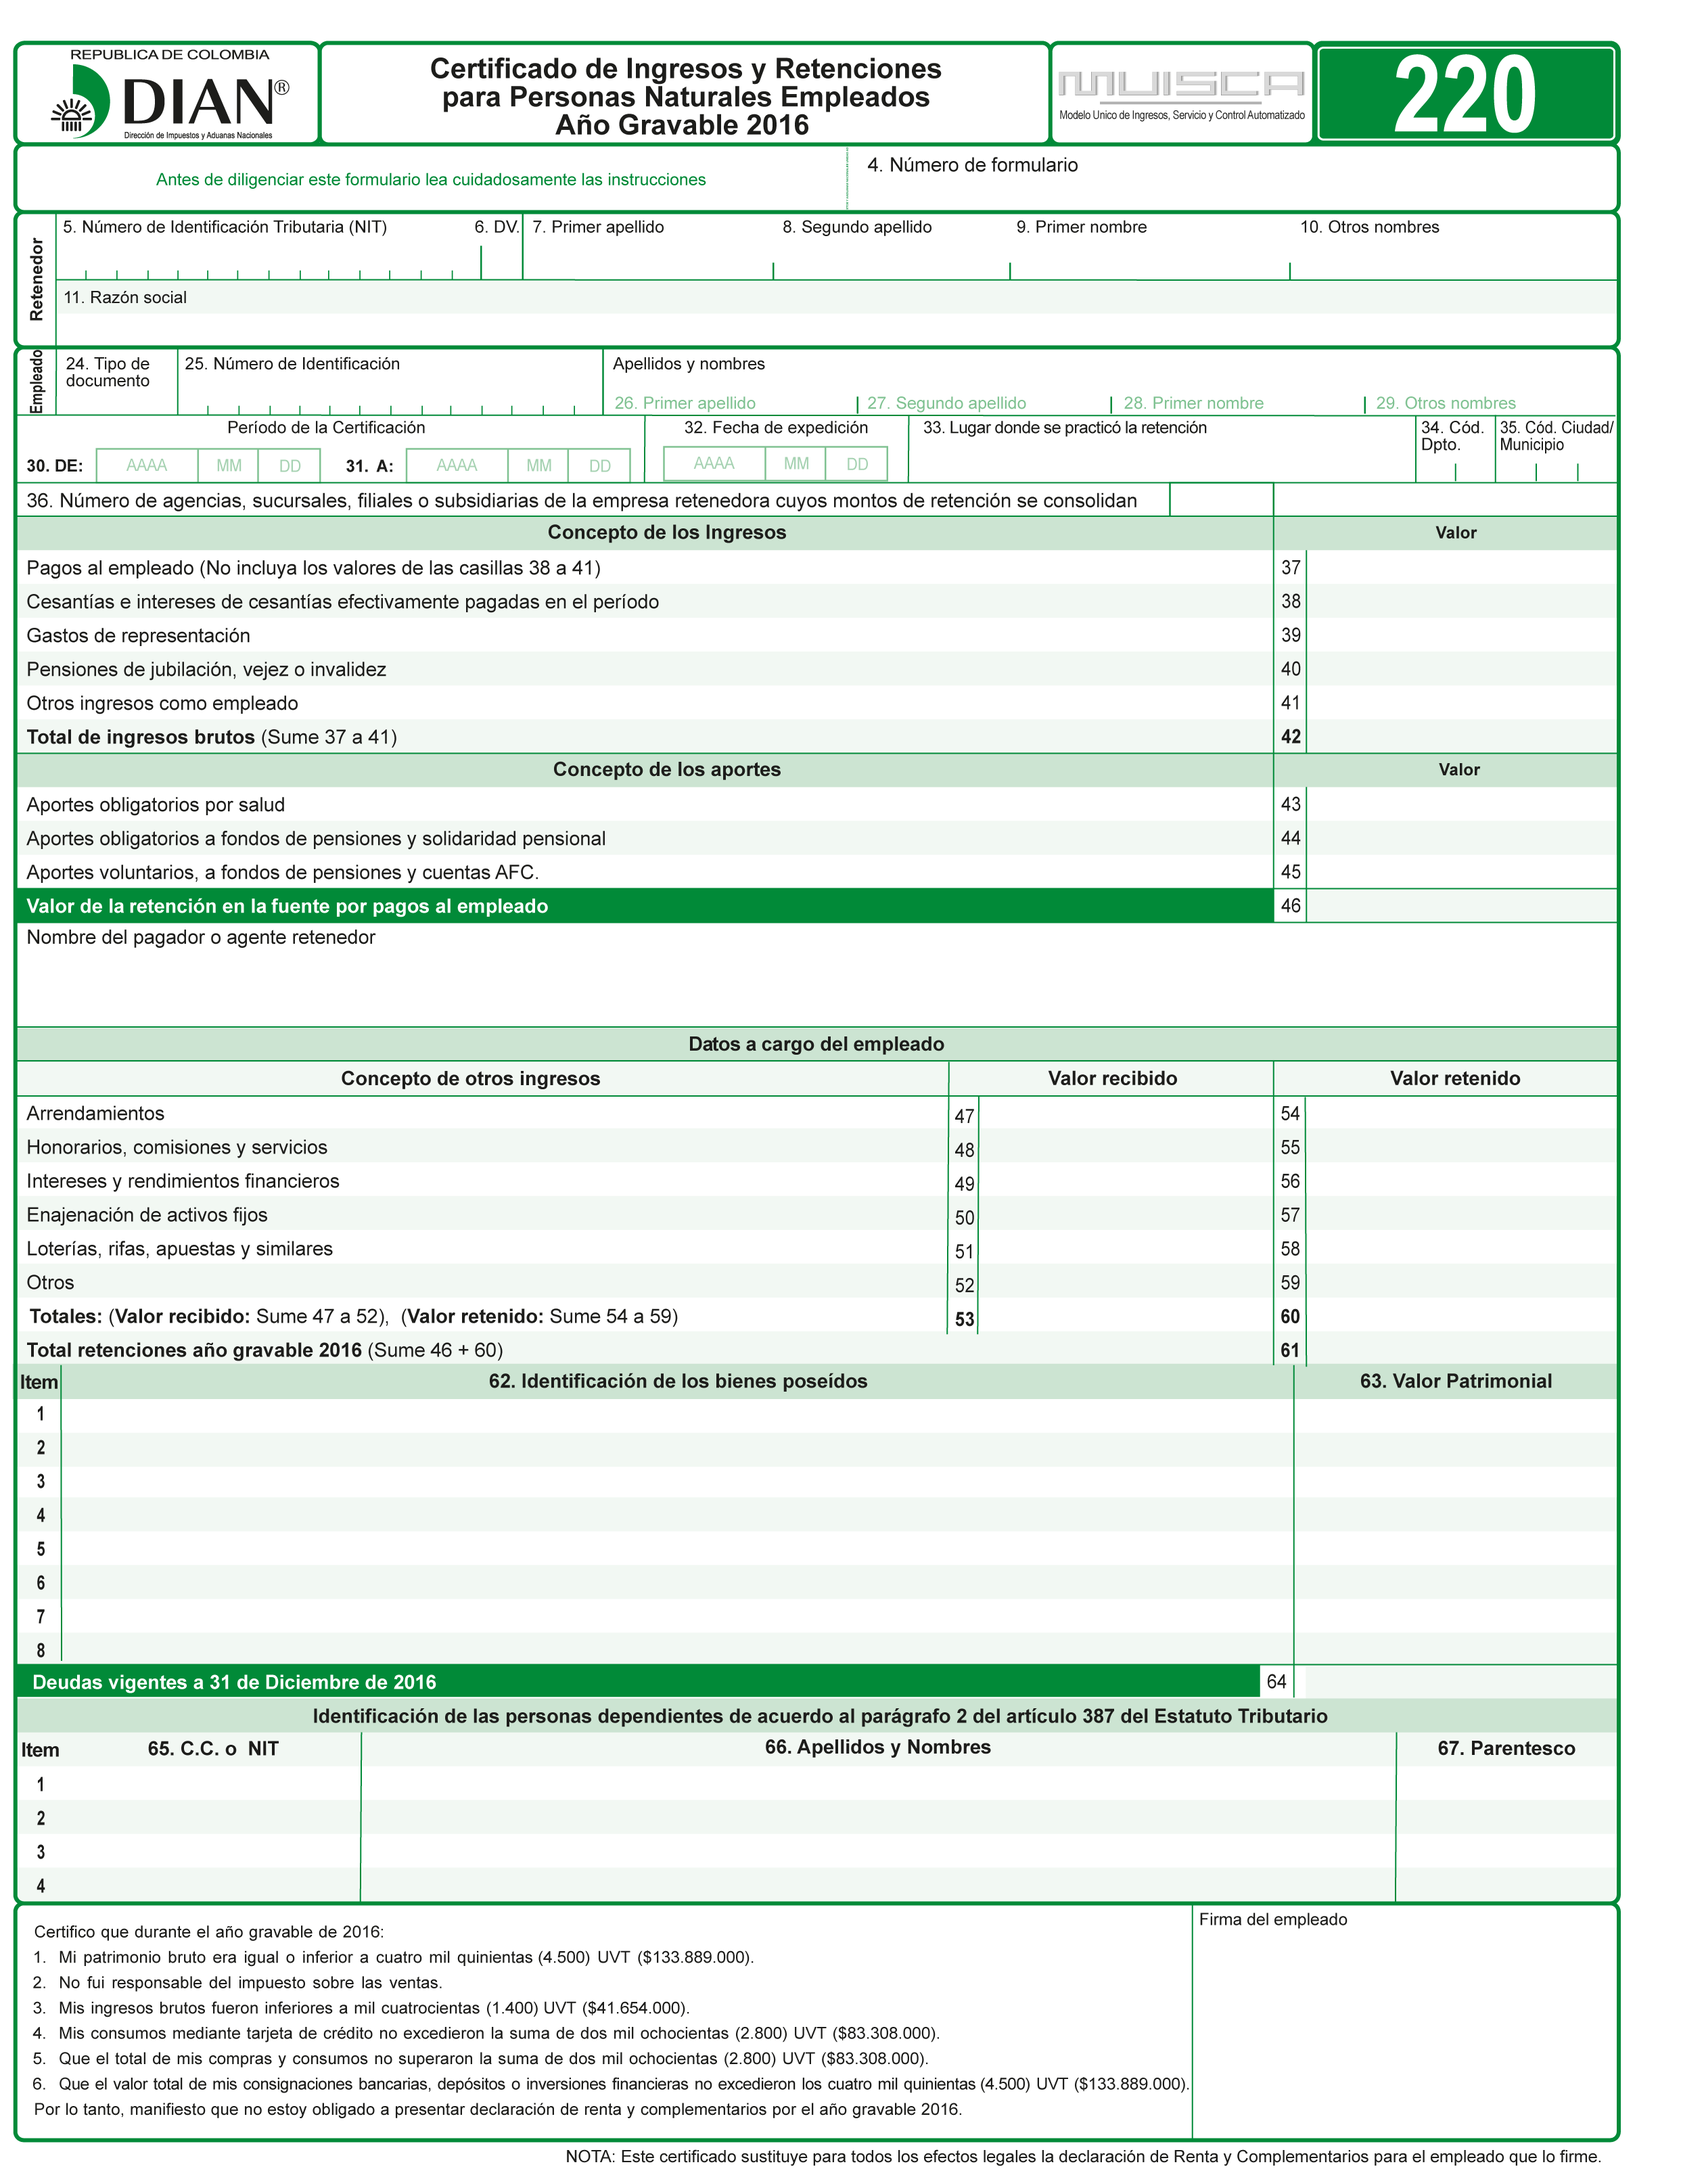
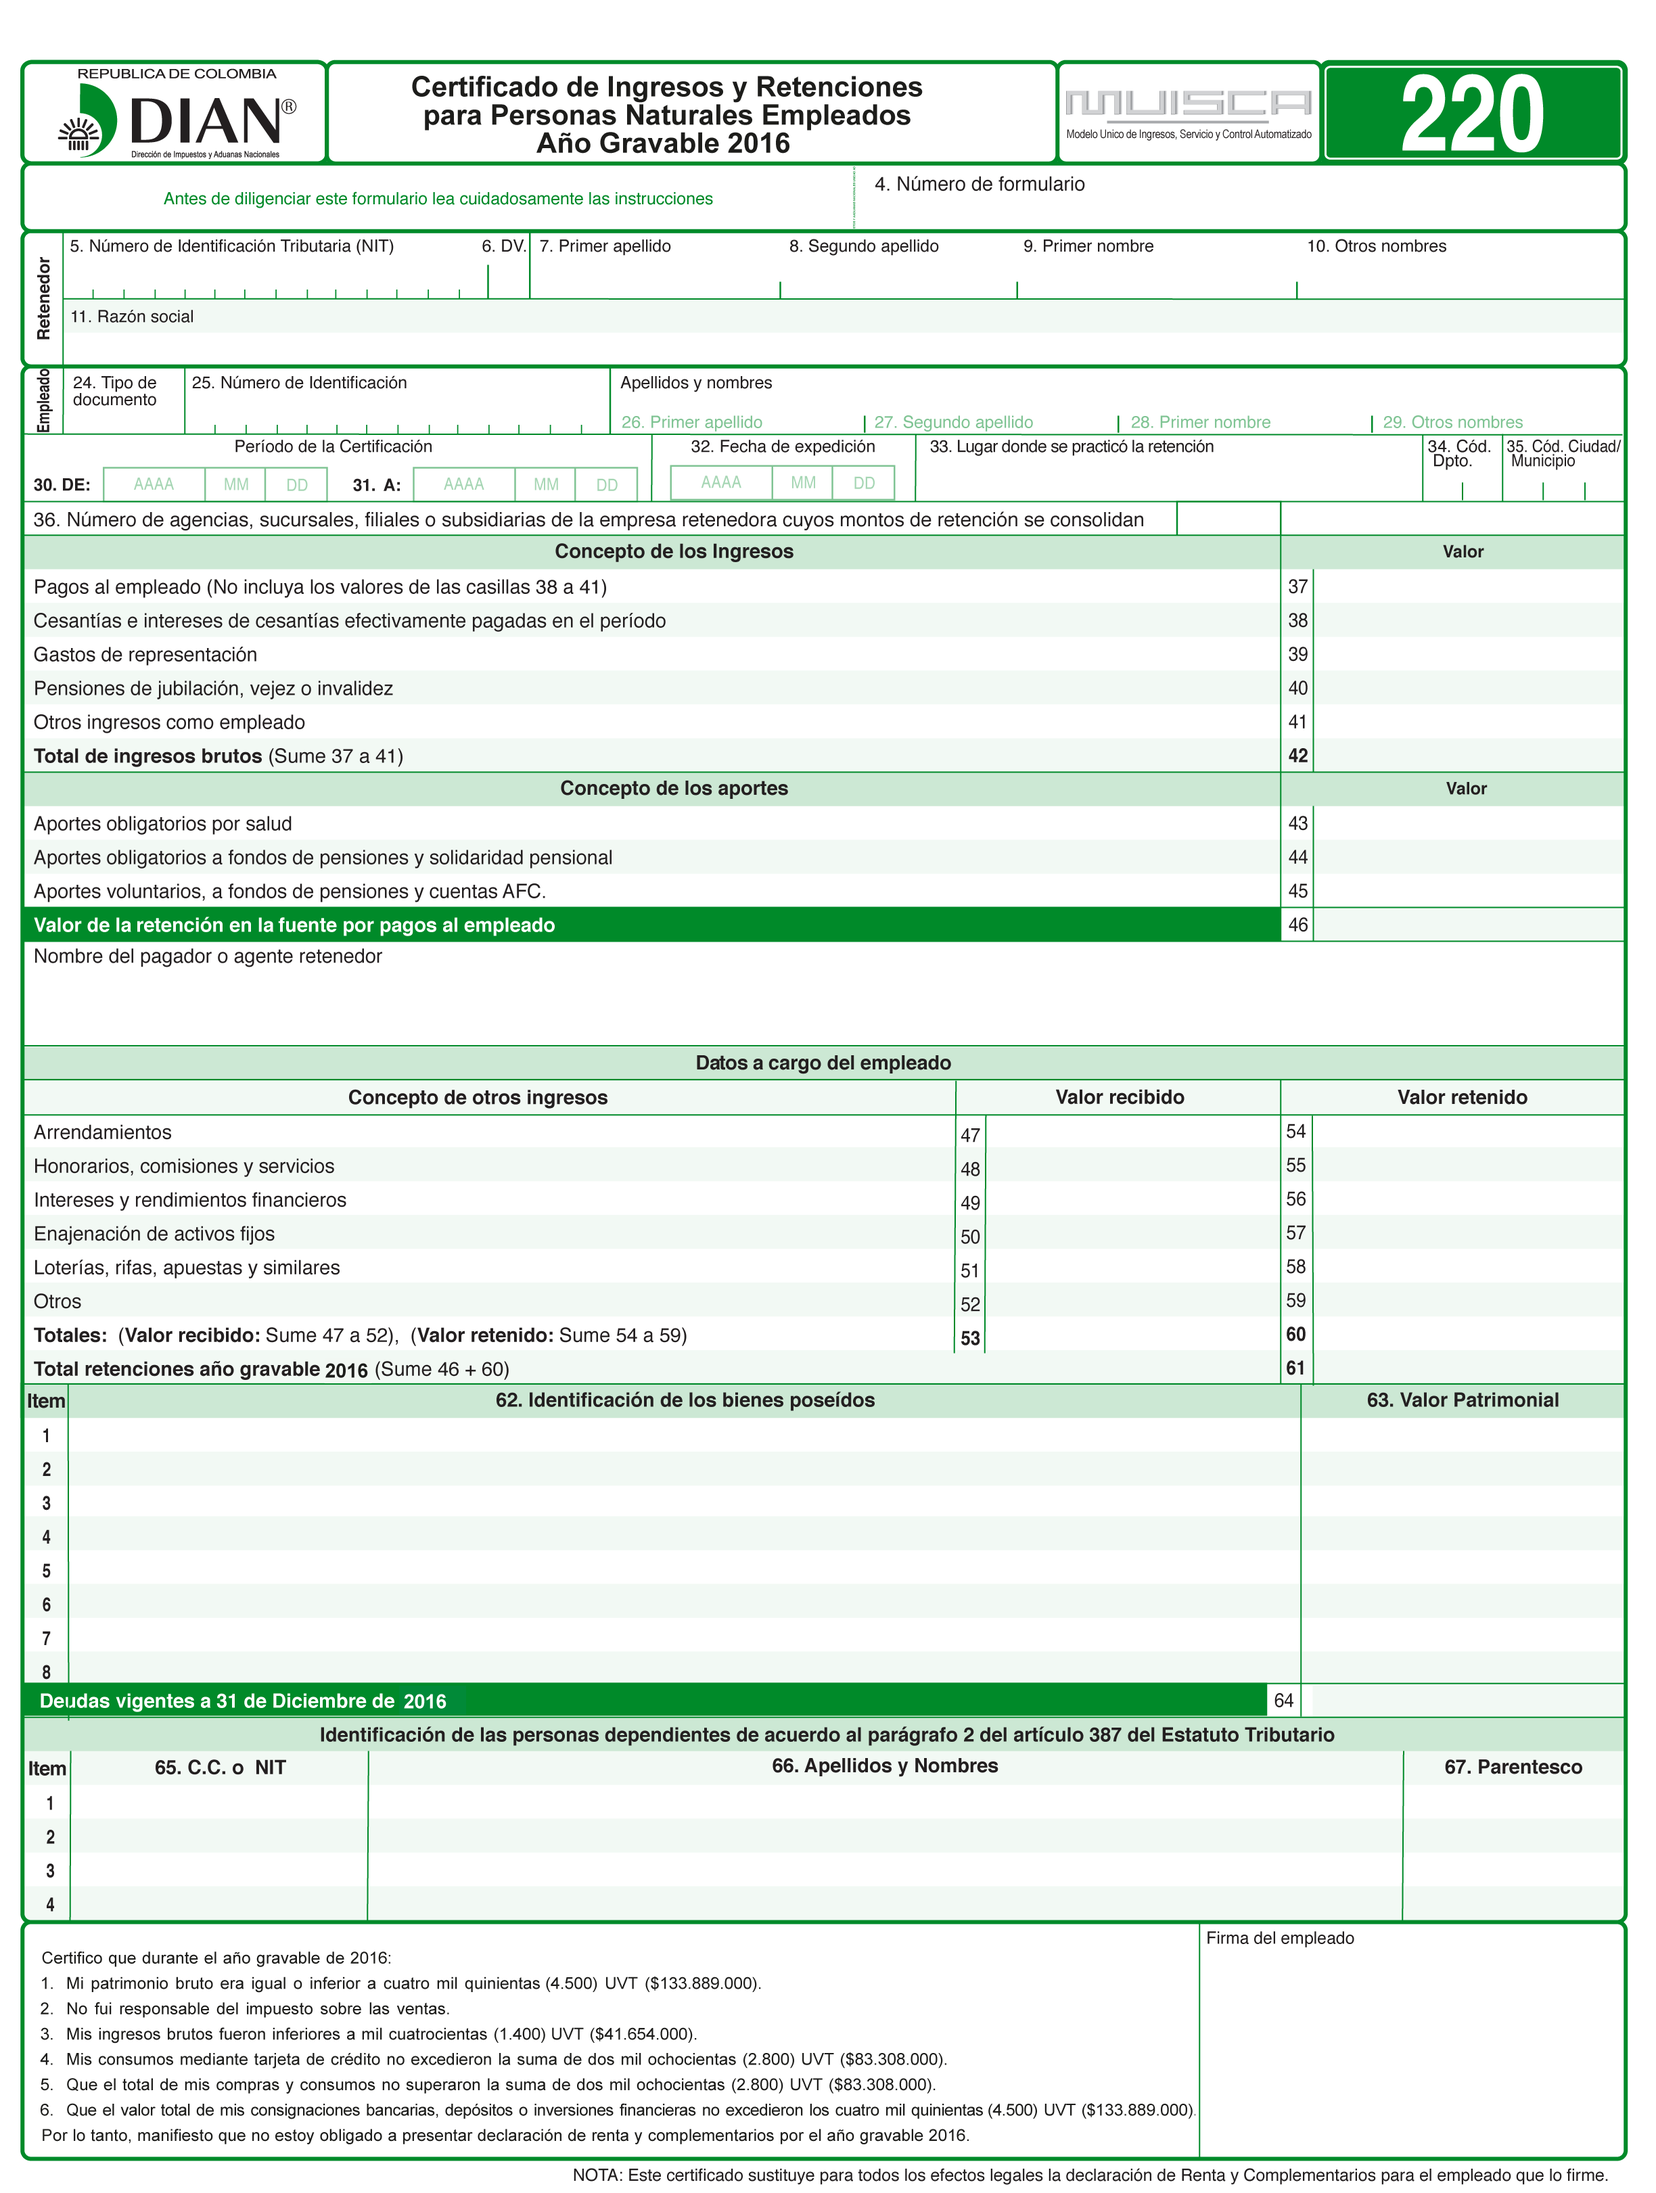
cambios en proveedores y procesos

Changed region(s): [[0.0, 0.0, 0.9935, 0.9972], [0.7141, 0.8725, 0.8072, 0.9037]]

diff --git a/web/portalNomina/certificadoRetencion/html/certificadoRetencion.html b/web/portalNomina/certificadoRetencion/html/certificadoRetencion.html
@@ -21,15 +21,17 @@
         <link href="../../../css/kendo.metro.min.css" rel="stylesheet" type="text/css"/>
         <link href="/../../css/cssSpriteIntegrity.css" rel="stylesheet" type="text/css"/>
         <link href="../../../css/integrity.css" rel="stylesheet" type="text/css"/>
+        <link href="../../../css/cssSpriteIntegrity.css" rel="stylesheet" type="text/css"/>
     </head>
     <body>
         <div>
             <table style="width: 100%">
                 <tr>
-                    <td style="width: 50px"><a class="k-grid"  aling="center"><span class="k-sprite po_bullet1"></span></a></td>
+                    <td style="width: 50px; vertical-align: middle "><a class="k-grid"  aling="center"><span class="k-sprite po_bullet1"></span></a></td>
                     <td>
-                        <h1 id = "subtitulo" class="subTitulo">Certificado De Retencion:</h1>                                
-                    </td>                            
+                        <h1 id = "subtitulo" aling="center" class="subTitulo">Certificado De Retencion:</h1>                                
+                    </td>               
+                     <td style="width: 55px;height: 50px; vertical-align: middle"><a  aling="center"><span class="k-sprite po_downflecha" onclick="volver()"></span></a></td>
                 </tr>
             </table>
             <div class="sidenavSup"></div>                    
@@ -228,6 +230,8 @@
                             <p id="numCasilla35P2"></p>
                             <p id="numCasilla35P3"></p>
                             <p id="numCasilla36"></p>
+                            <table id="ingresos">
+                                <td>
                             <p id="numCasilla37"></p>
                             <p id="numCasilla38"></p>
                             <p id="numCasilla39"></p>
@@ -238,6 +242,8 @@
                             <p id="numCasilla44"></p>
                             <p id="numCasilla45"></p>
                             <p id="numCasilla46"></p>
+                            </td>
+                            </table>
                             <p id="numCasillaPagador"></p>
                             <p id="numCasilla47"></p>
                             <p id="numCasilla48"></p>
@@ -314,6 +320,9 @@
         <script src="../../scripts/pakoPdf.js"></script>
         
         <style>
+            #ingresos{
+                 text-align: right;
+            }
             #numCasilla4{
             position: absolute;
             top: 80px;
@@ -421,7 +430,7 @@
             }
             #numCasilla24{           
             position: absolute;
-            top: 185px;
+            top: 180px;
             left: 45px;    
             }
             #numCasilla25P1{           
@@ -596,49 +605,51 @@
             }
             #numCasilla37{           
             position: absolute;
+            
             top: 262px;
-            left: 710px;    
+                right: 15px;   
             }#numCasilla38{           
             position: absolute;
+            
             top: 277px;
-            left: 710px;    
+                right: 15px;   
             }#numCasilla39{           
             position: absolute;
             top: 295px;
-            left: 710px;    
+               right: 15px;   
             }#numCasilla40{           
             position: absolute;
             top: 310px;
-            left: 710px;    
+                right: 15px;   
             }#numCasilla41{           
             position: absolute;
             top: 328px;
-            left: 710px;    
+                right: 15px;    
             }
             #numCasilla42{           
             position: absolute;
             top: 345px;
-            left: 710px;    
+             right: 15px;    
             }
             #numCasilla43{           
             position: absolute;
             top: 375px;
-            left: 710px;    
+               right: 15px;  
             }
             #numCasilla44{           
             position: absolute;
             top: 392px;
-            left: 710px;    
+                right: 15px;  
             }
             #numCasilla45{           
             position: absolute;
             top: 407px;
-            left: 710px;    
+             right: 15px;   
             }
             #numCasilla46{           
             position: absolute;
             top: 425px;
-            left: 710px;    
+           right: 15px;    
             } 
             #numCasillaPagador{           
             position: absolute;
@@ -960,11 +971,15 @@
                 background-image: url(certificado2016.png);
                 background-size: 820px 1050px;
             }*/
-            #principal{
+            
+            .dosmilquince{
                 background-image: url(certificado2015.png);
                 background-size: 820px 1050px;
             }
-            
+            .dosmildieciseis{
+                background-image: url(certificado2016.png);
+                background-size: 820px 1050px;
+            }
         </style>
         
     </div>

diff --git a/web/portalNomina/certificadoRetencion/js/certificadoRetencion.js b/web/portalNomina/certificadoRetencion/js/certificadoRetencion.js
@@ -27,14 +27,21 @@
                             return obj.numcasilla === "11";
                         });   
       document.getElementById('numCasilla11').innerHTML=numcasilla[0].valorcasilla;  
+      
       var numcasilla= e.dsCertificadoingret.ttcertificadoingret.filter(function (obj) {
                             return obj.numcasilla === "24";
                         });   
       document.getElementById('numCasilla24').innerHTML=numcasilla[0].valorcasilla;  
-      var numcasilla= e.dsCertificadoingret.ttcertificadoingret.filter(function (obj) {
-                            return obj.numcasilla === "24";
-                        });   
-      document.getElementById('numCasilla24').innerHTML=numcasilla[0].valorcasilla;  
+
+        var numcasilla= e.dsCertificadoingret.ttcertificadoingret.filter(function (obj) {
+                            return obj.numcasilla === "25";
+                        }); 
+     var valorcasilla = numcasilla[0].valorcasilla;          
+     for (i = 1; i <= valorcasilla.length; i++){
+        document.getElementById('numCasilla25P'+i).innerHTML=valorcasilla[valorcasilla.length-i];
+     }                
+                        
+     
         
         var numcasilla= e.dsCertificadoingret.ttcertificadoingret.filter(function (obj) {
                             return obj.numcasilla === "26";
@@ -135,10 +142,26 @@
                             return obj.numcasilla === "46";
                         }); 
        document.getElementById('numCasilla46').innerHTML=numcasilla[0].valorcasilla;
+       
+        var numcasilla461= e.dsCertificadoingret.ttcertificadoingret.filter(function (obj) {
+                            return obj.numcasilla === "461";
+                        }); 
+        var numcasilla462= e.dsCertificadoingret.ttcertificadoingret.filter(function (obj) {
+                            return obj.numcasilla === "462";
+                        });        
+        document.getElementById('numCasillaPagador').innerHTML=numcasilla461[0].valorcasilla+" - "+numcasilla462[0].valorcasilla;
     }
    function consultar() {
        try {
-      var año=document.getElementById('añoGrabable').value;         
+      var año=document.getElementById('añoGrabable').value;    
+            if (año==="2015"){
+            $("#principal").removeClass( "dosmildieciseis" ).addClass( "dosmilquince" );     
+           //$("#principal").addClass("dosmilquince");
+            }
+            if (año==="2016"){
+            
+            $("#principal").removeClass( "dosmilquince" ).addClass( "dosmildieciseis" );     
+            }
         var consultar = new sirRetencion();
         var datajson = consultar.getjson();
         var urlService = consultar.getUrlSir();
@@ -163,12 +186,15 @@
                             alertDialogs("Error"+resp.dsCertificadoingret.eeEstados[0].Estado); 
                                                      
                         }
-                    } 
+                    },
+                    error: function (e) {  debugger       
+                        alertDialogs("Error"+e)
+        }
         
                 }); 
 }
-catch(err) {
-     alertDialogs("Error"+err);
+catch(err) {debugger
+     alertDialogs("Error"+err.statusText);
 }
       
        

diff --git a/web/procesos/js/procesos.js b/web/procesos/js/procesos.js
@@ -83,7 +83,7 @@ $(document).ready(function () {
      *  
      *  
      */     
-    var grid1 = $("#grid").kendoGrid({
+        $("#grid").kendoGrid({
         dataSource: datasource,
                             
         //navigatable: true,
@@ -575,18 +575,17 @@ function changImgFunc1(results) {
     }  
 }
 function terminarVacaciones(){debugger
+    
     $("#windowform").data("kendoWindow").close();   
     alertDialogs("Se ha terminado el proceso");
     $('#grid1').data('kendoGrid').refresh();                                             
     $('#grid1').data('kendoGrid').dataSource.read();
     $('#grid1').data('kendoGrid').refresh(); 
 }
-function cerrar(){debugger
+function solicitaVacaciones(){debugger
     $("#windowform").data("kendoWindow").close();   
     alertDialogs("Se ha iniciado el proceso correctamente");
-    $('#grid1').data('kendoGrid').refresh();                                             
-    $('#grid1').data('kendoGrid').dataSource.read();
-    $('#grid1').data('kendoGrid').refresh(); 
+ 
 }
 function changImgFunc(results) {
 

diff --git a/web/procesos/js/popUpUsuarios.js b/web/procesos/js/popUpUsuarios.js
@@ -218,11 +218,14 @@ $(document).ready(function () {
         }   
         data.dsbpm_own_task.TTparam[0].picproc_name= proceso;
         data.dsbpm_own_task.eebpm_own_task=array;
+        
         if (data.dsbpm_own_task.eebpm_own_task.length===0){
             var nodo=[{pictasknamealtern: ""}];
             data.dsbpm_own_task.TTparamAltern=[];   
             data.dsbpm_own_task.TTparamAltern=nodo;
-             data.dsbpm_own_task.TTparamAltern[0].pictasknamealtern=tarea;
+            data.dsbpm_own_task.TTparamAltern[0].pictasknamealtern=tarea;
+            data.dsbpm_own_task.TTparamAltern[0].picprocnameatern=proceso;
+            
         }
         else
         {

diff --git a/web/procesos/formularioProcesos/js/Solicitar_Vacaciones1.js b/web/procesos/formularioProcesos/js/Solicitar_Vacaciones1.js
@@ -49,7 +49,7 @@ function guardar(){debugger
                 if((resp.dsSolicitudVacaciones.eeEstados[0].Estado)=="OK")
                 {
                   
-                   parent.cerrar();
+                   parent.solicitaVacaciones();
                 }
                 else   
                 {  
